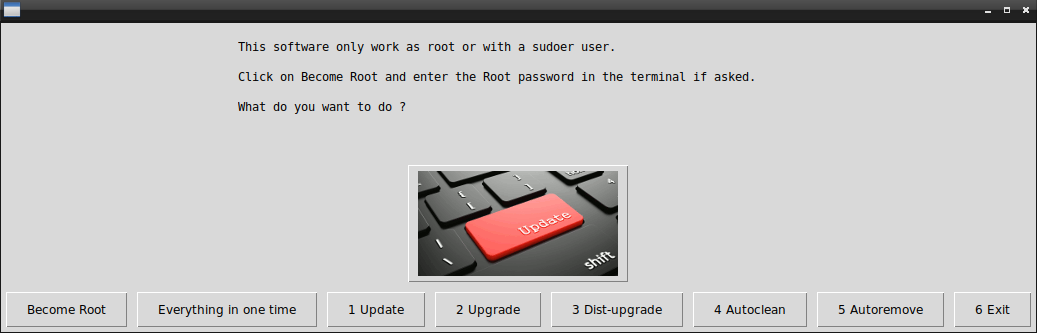
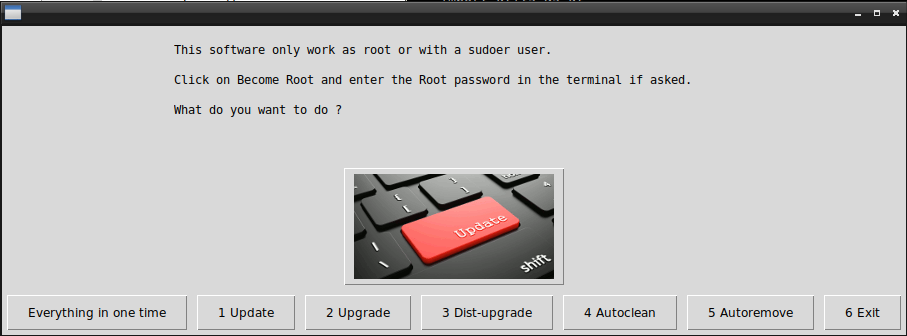
remove become root

diff --git a/DaylightUpdater.py b/DaylightUpdater.py
@@ -6,9 +6,9 @@ import os
 
 image = "./images/update.gif"
 
-def su():
-    startUpdate()
-    os.system("sudo -i su")
+#def su():
+#    os.system("sudo -i su")
+#    startUpdate()
 
 def everything():
     os.system("sudo -i apt-get -y update && sudo -i apt-get -y upgrade && sudo -i apt-get -y dist-upgrade && sudo -i apt-get -y autoremove ")
@@ -38,7 +38,7 @@ def startUpdate():
     img= image
     title= "DaylightUpdater"
     msg = "This software only work as root or with a sudoer user.\n\nClick on Become Root and enter the Root password in the terminal if asked.\n\nWhat do you want to do ?"
-    choices = ["Become Root","Everything in one time","1 Update", "2 Upgrade", "3 Dist-upgrade", "4 Autoclean", "5 Autoremove", "6 Exit"]
+    choices = ["Everything in one time","1 Update", "2 Upgrade", "3 Dist-upgrade", "4 Autoclean", "5 Autoremove", "6 Exit"]
     reply = buttonbox(msg,image=img,choices=choices)
     if reply == "1 Update":
         update()
@@ -55,8 +55,8 @@ def startUpdate():
         sys.exit(0)
     elif reply == "Everything in one time":
         everything()
-    elif reply == "Become Root":
-        su()
+  #  elif reply == "Become Root":
+   #     su()
     else:
         sys.exit(0)
 
